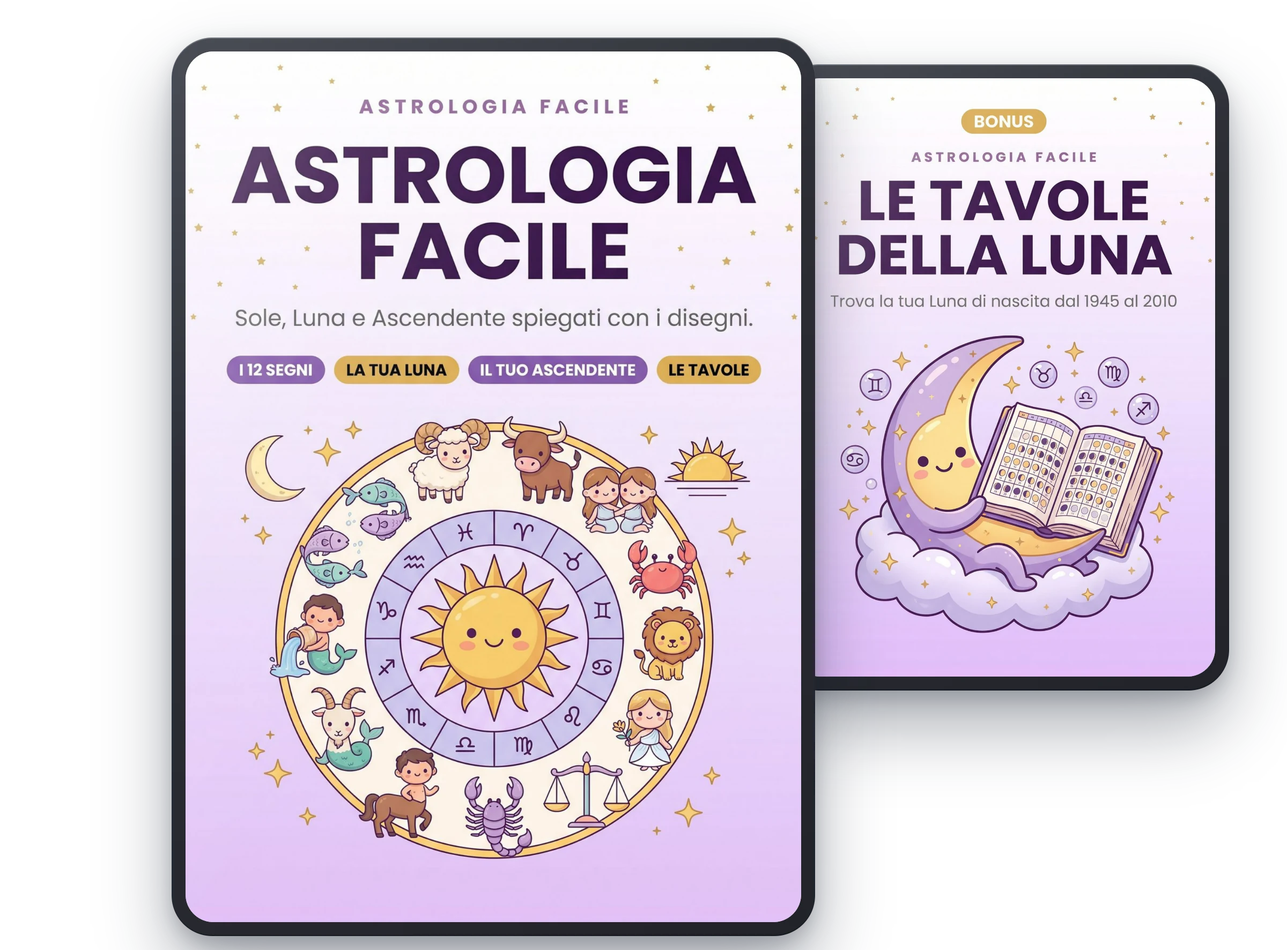
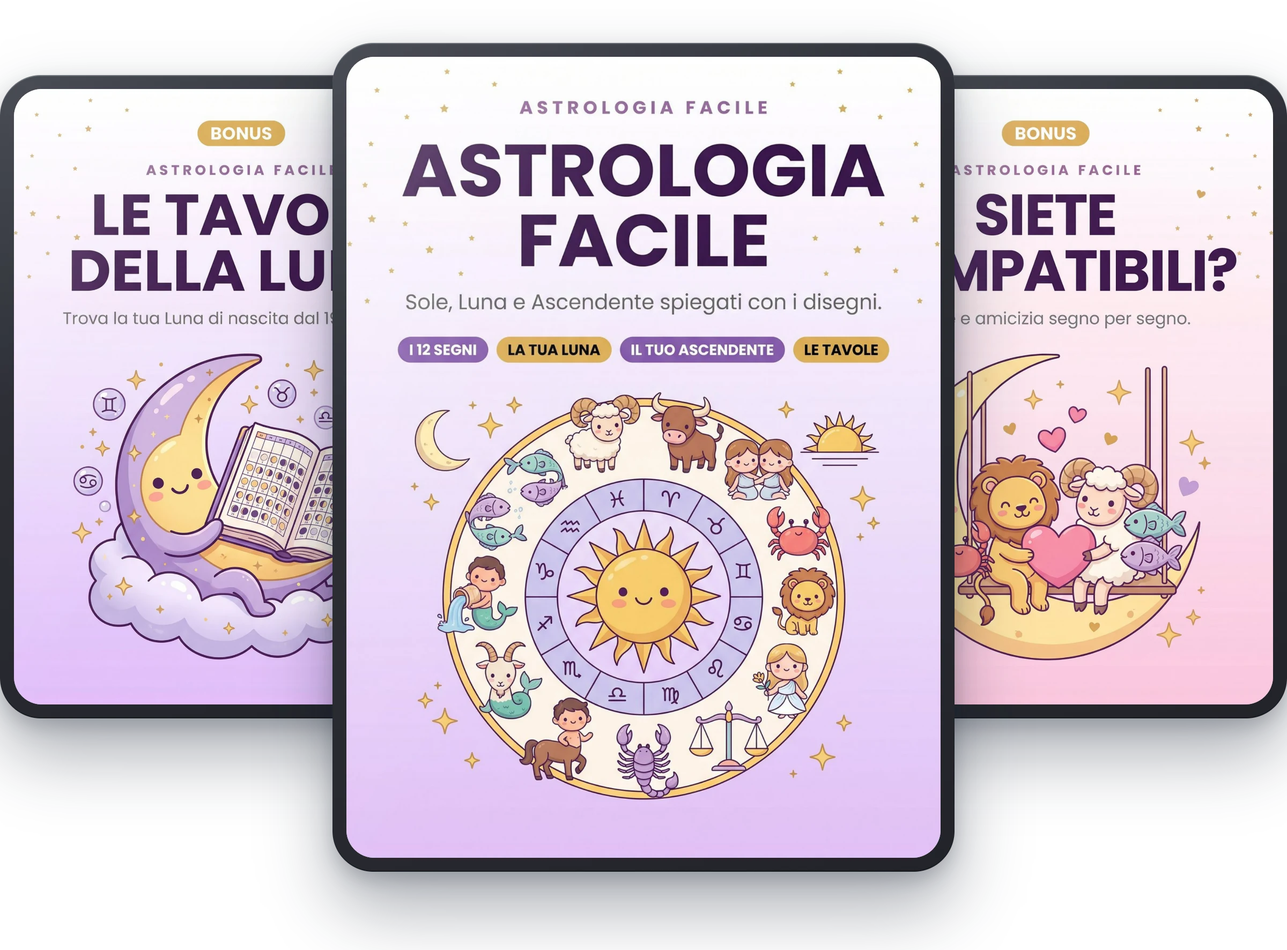
Astrologia: il terzo volume, e il contrasto misurato su tutte e due le landing
«Siete compatibili?» entra come BONUS 2: hero a tre copertine, blocco nel
value stack, riga nel decision box e valore a listino (9,90). Il kit vale
64,70 e si vende a 19,90.

Nel riepilogo e nella description restavano frasi del clone di
farmacologia e di anatomia — prontuari, piani del corpo, «porta in
reparto» — su pagine che parlano di zodiaco e di denti: riscritte.

Il contrasto non e' stimato ma misurato sulla pagina renderizzata,
mescolando le trasparenze e leggendo i gradienti: otto colori stavano
sotto la soglia WCAG, fra cui un titolo blu notte su fondo viola a 1,58.
Ora tutte e due le pagine danno zero.

diff --git a/astrologia.html b/astrologia.html
@@ -22,7 +22,7 @@
   <meta name="theme-color" content="#2645a0">
   <!-- title ~57 y description ~148 caracteres: es lo que Google alcanza a mostrar -->
   <title>Astrologia Facile: Sole, Luna e Ascendente spiegati con i disegni</title>
-  <meta name="description" content="Sole, Luna e Ascendente spiegati con i disegni in 71 pagine, con le tavole gi&agrave; calcolate per l&rsquo;Italia e Le Tavole della Luna in regalo. A 27€, garanzia 30 giorni.">
+  <meta name="description" content="Sole, Luna e Ascendente spiegati con i disegni in 71 pagine, con le tavole gi&agrave; calcolate per l&rsquo;Italia e 2 volumi in regalo. A 19,90€, garanzia 30 giorni.">
   <meta name="robots" content="index, follow, max-image-preview:large, max-snippet:-1">
   <meta name="author" content="Studio Facile">
   <link rel="alternate" hreflang="it" href="https://www.studiofacilebook.com/astrologia">
@@ -2089,7 +2089,7 @@
     }
 </style>
   <script type="application/ld+json">
-{"@context": "https://schema.org", "@graph": [{"@type": "Product", "name": "Astrologia Facile — guida illustrata", "brand": {"@type": "Brand", "name": "Studio Facile"}, "description": "71 pagine illustrate, schemi e non tavole: ritmo, aritmie, blocchi, infarto ed elettroliti. Con due volumi in regalo.", "image": "https://www.studiofacilebook.com/mockups/astrologia/hero.webp", "offers": {"@type": "Offer", "price": "27.0", "priceCurrency": "EUR", "availability": "https://schema.org/InStock", "url": "https://checkout.studiofacilebook.com/checkout/kit-astrologia-facile", "hasMerchantReturnPolicy": {"@type": "MerchantReturnPolicy", "returnPolicyCategory": "https://schema.org/MerchantReturnFiniteReturnWindow", "merchantReturnDays": 30, "applicableCountry": "IT"}}}, {"@type": "FAQPage", "mainEntity": [{"@type": "Question", "name": "Come riceverò il materiale?", "acceptedAnswer": {"@type": "Answer", "text": "Subito dopo l'acquisto ricevi un'email automatica con i tre volumi: Astrologia Facile, Farmaci in Emergenza e il Prontuario degli Antinfiammatori. Sono PDF in alta risoluzione, pronti da scaricare, stampare o consultare da qualsiasi dispositivo."}}, {"@type": "Question", "name": "Il pagamento è mensile o unico?", "acceptedAnswer": {"@type": "Answer", "text": "Pagamento unico di 27€. Nessuna rata, nessun addebito ricorrente, nessuna sorpresa. Paghi una volta e il materiale è tuo per sempre."}}, {"@type": "Question", "name": "Serve sapere gia qualcosa di astrologia?", "acceptedAnswer": {"@type": "Answer", "text": "No, si parte da zero. Le prime sei pagine danno la ruota, i quattro elementi e le tre modalita: da li in poi tutto il resto si legge da solo. Non ci sono calcoli da fare a mano."}}, {"@type": "Question", "name": "Devo conoscere l'ora esatta di nascita?", "acceptedAnswer": {"@type": "Answer", "text": "Per la Luna basta il giorno: la trovi nelle tavole in regalo. Per l'Ascendente serve l'ora, perche cambia ogni due ore circa. Se non la conosci c'e una pagina apposta che spiega come fare lo stesso e dove chiederla all'anagrafe."}}, {"@type": "Question", "name": "Le tavole valgono solo per l'Italia?", "acceptedAnswer": {"@type": "Answer", "text": "Sono calcolate sul fuso italiano e l'ora legale e gia compresa, quindi non devi correggere niente se sei nata in Italia. Per una nascita all'estero i segni della Luna restano validi: cambia solo l'ora, di poche ore."}}, {"@type": "Question", "name": "E un oroscopo?", "acceptedAnswer": {"@type": "Answer", "text": "No. Non ci sono previsioni e non c'e niente sul futuro: il libro spiega come leggere il tuo cielo di nascita, cioe com'eri fatta il giorno in cui sei nata. E un libro di intrattenimento e di crescita personale."}}, {"@type": "Question", "name": "Posso stamparlo?", "acceptedAnswer": {"@type": "Answer", "text": "Si, per uso personale e senza limiti. Il PDF e in alta risoluzione: la scheda finale e fatta apposta per essere stampata e compilata con i tuoi tre punti."}}]}]}
+{"@context": "https://schema.org", "@graph": [{"@type": "Product", "name": "Astrologia Facile — guida illustrata", "brand": {"@type": "Brand", "name": "Studio Facile"}, "description": "71 pagine illustrate, schemi e non tavole: ritmo, aritmie, blocchi, infarto ed elettroliti. Con due volumi in regalo.", "image": "https://www.studiofacilebook.com/mockups/astrologia/hero.webp", "offers": {"@type": "Offer", "price": "19.9", "priceCurrency": "EUR", "availability": "https://schema.org/InStock", "url": "https://checkout.studiofacilebook.com/checkout/kit-astrologia-facile", "hasMerchantReturnPolicy": {"@type": "MerchantReturnPolicy", "returnPolicyCategory": "https://schema.org/MerchantReturnFiniteReturnWindow", "merchantReturnDays": 30, "applicableCountry": "IT"}}}, {"@type": "FAQPage", "mainEntity": [{"@type": "Question", "name": "Come riceverò il materiale?", "acceptedAnswer": {"@type": "Answer", "text": "Subito dopo l'acquisto ricevi un'email automatica con i tre volumi: Astrologia Facile, Farmaci in Emergenza e il Prontuario degli Antinfiammatori. Sono PDF in alta risoluzione, pronti da scaricare, stampare o consultare da qualsiasi dispositivo."}}, {"@type": "Question", "name": "Il pagamento è mensile o unico?", "acceptedAnswer": {"@type": "Answer", "text": "Pagamento unico di 19,90€. Nessuna rata, nessun addebito ricorrente, nessuna sorpresa. Paghi una volta e il materiale è tuo per sempre."}}, {"@type": "Question", "name": "Serve sapere gia qualcosa di astrologia?", "acceptedAnswer": {"@type": "Answer", "text": "No, si parte da zero. Le prime sei pagine danno la ruota, i quattro elementi e le tre modalita: da li in poi tutto il resto si legge da solo. Non ci sono calcoli da fare a mano."}}, {"@type": "Question", "name": "Devo conoscere l'ora esatta di nascita?", "acceptedAnswer": {"@type": "Answer", "text": "Per la Luna basta il giorno: la trovi nelle tavole in regalo. Per l'Ascendente serve l'ora, perche cambia ogni due ore circa. Se non la conosci c'e una pagina apposta che spiega come fare lo stesso e dove chiederla all'anagrafe."}}, {"@type": "Question", "name": "Le tavole valgono solo per l'Italia?", "acceptedAnswer": {"@type": "Answer", "text": "Sono calcolate sul fuso italiano e l'ora legale e gia compresa, quindi non devi correggere niente se sei nata in Italia. Per una nascita all'estero i segni della Luna restano validi: cambia solo l'ora, di poche ore."}}, {"@type": "Question", "name": "E un oroscopo?", "acceptedAnswer": {"@type": "Answer", "text": "No. Non ci sono previsioni e non c'e niente sul futuro: il libro spiega come leggere il tuo cielo di nascita, cioe com'eri fatta il giorno in cui sei nata. E un libro di intrattenimento e di crescita personale."}}, {"@type": "Question", "name": "Posso stamparlo?", "acceptedAnswer": {"@type": "Answer", "text": "Si, per uso personale e senza limiti. Il PDF e in alta risoluzione: la scheda finale e fatta apposta per essere stampata e compilata con i tuoi tre punti."}}]}]}
   </script>
 <!-- Brevo: seguimiento web (visitas y clics de compra para las automatizaciones) -->
 <script src="https://cdn.brevo.com/js/sdk-loader.js" async></script>
@@ -2161,6 +2161,12 @@
     .promo-time{color:rgba(255,255,255,.88)}
     /* Etichetta QUESTO: rosso chiaro su rosa, 3,95. */
     .comparison-label.bad{background:#fcd9d9;color:#9b1c1c}
+    /* il titolo della sezione viola restava blu notte: 1,58 */
+    .subjects-section h2, .subjects-section h2 *{color:#fff}
+    /* il verde della garanzia su fondo verdino dava 2,42 */
+    .guarantee-box h3{color:#047857}
+    /* le stelline oro sul viola davano 3,34 */
+    .hero-social .stars, .tst-card .stars{color:#ffdf8a}
     /* L'occhiello aveva il fondo scritto a mano in blu (rgba 38,69,160):
        con il testo viola dava 1,16. Fondo lavanda e testo viola scuro. */
     .eyebrow{background:rgba(107,63,160,.12);color:#4a2878}
@@ -2181,7 +2187,7 @@
   <section class="hero">
     <div class="hero-content">
       <div class="hero-mockup">
-        <img src="https://czocbnyoenjbpxmcqobn.supabase.co/storage/v1/object/public/algoritmia-img/studiofacile/mockups/astrologia/hero.webp?v=b07f3aff" alt="Astrologia Facile, con Le Tavole della Luna in regalo"
+        <img src="https://czocbnyoenjbpxmcqobn.supabase.co/storage/v1/object/public/algoritmia-img/studiofacile/mockups/astrologia/hero.webp?v=74d98271" alt="Astrologia Facile, con Le Tavole della Luna e Siete compatibili in regalo"
              width="1200" height="886" loading="eager" fetchpriority="high" decoding="async">
       </div>
       <p class="hero-social">
@@ -2464,9 +2470,9 @@
   <!-- VALUE STACK -->
   <section class="value-section">
     <div class="container">
-      <h2 class="text-center">Ma Non è Tutto: Riceverai Anche Le Tavole della Luna in Regalo</h2>
+      <h2 class="text-center">Ma Non è Tutto: Riceverai Anche Due Volumi in Regalo</h2>
 
-      <div class="bonus-grid bonus-grid-uno">
+      <div class="bonus-grid">
         <div class="bonus-item-with-image">
           <div class="bonus-mockup">
             <img src="https://czocbnyoenjbpxmcqobn.supabase.co/storage/v1/object/public/algoritmia-img/studiofacile/mockups/astrologia/bonus-luna.webp?v=5f0ea03d" alt="Le Tavole della Luna, il bonus con le effemeridi dal 1945 al 2010" width="720" height="1000" loading="lazy" decoding="async">
@@ -2476,36 +2482,47 @@
             <p class="value">Valore singolo: 14,90€</p>
             <p>68 pagine, <strong>una pagina per ogni anno</strong>: il giorno e l'ora esatti in cui la Luna entra in ogni segno, e in cui il Sole cambia segno.</p>
             <p style="margin-top: 12px;">Calcolate con le effemeridi astronomiche sul fuso italiano, con l'ora legale già compresa. Sono le tavole che rendono possibile trovare la tua Luna senza nessuna app: cerchi l'anno, cerchi il giorno, e c'è.</p>
-            
           </div>
         </div>
 
+        <div class="bonus-item-with-image">
+          <div class="bonus-mockup">
+            <img src="https://czocbnyoenjbpxmcqobn.supabase.co/storage/v1/object/public/algoritmia-img/studiofacile/mockups/astrologia/bonus-compatibili.webp?v=3bbcf806" alt="Siete compatibili?, il bonus sulle affinità segno per segno" width="720" height="1000" loading="lazy" decoding="async">
+          </div>
+          <div class="bonus-text">
+            <h3>BONUS 2: &ldquo;Siete compatibili?&rdquo;, amore e amicizia segno per segno</h3>
+            <p class="value">Valore singolo: 9,90€</p>
+            <p>17 pagine, <strong>una scheda per ogni segno</strong>: con chi c'è più intesa, qual è l'attrazione fatale, e con quali segni ci vuole impegno.</p>
+            <p style="margin-top: 12px;">Su ogni pagina trovi che cosa cerca in amore, come si conquista e che cosa non sopporta. È il volume che finisce girato fra le mani degli amici: si legge la propria scheda e si va subito a cercare quella dell'altro.</p>
+          </div>
+        </div>
       </div>
         </div>
       </div>
 
       <!-- DECISION BOX -->
       <div class="decision-box" id="offerta">
-        <img src="https://czocbnyoenjbpxmcqobn.supabase.co/storage/v1/object/public/algoritmia-img/studiofacile/mockups/astrologia/hero.webp?v=b07f3aff" alt="Astrologia Facile con Le Tavole della Luna in regalo" class="db-mockup" width="1200" height="886" loading="lazy" decoding="async">
-        <h3 class="db-title">Astrologia Facile + Le Tavole della Luna</h3>
+        <img src="https://czocbnyoenjbpxmcqobn.supabase.co/storage/v1/object/public/algoritmia-img/studiofacile/mockups/astrologia/hero.webp?v=74d98271" alt="Astrologia Facile con i due volumi in regalo" class="db-mockup" width="1200" height="886" loading="lazy" decoding="async">
+        <h3 class="db-title">Astrologia Facile + i 2 volumi in regalo</h3>
         <ul class="db-checklist">
           <li><span class="db-check"><svg viewBox="0 0 24 24"><polyline points="20 6 9 17 4 12"/></svg></span>Astrologia Facile: 71 pagine illustrate<span class="db-price-val">39,90€</span></li>
           <li><span class="db-check"><svg viewBox="0 0 24 24"><polyline points="20 6 9 17 4 12"/></svg></span>Bonus 1: Le Tavole della Luna<span class="db-price-val">14,90€</span></li>
+          <li><span class="db-check"><svg viewBox="0 0 24 24"><polyline points="20 6 9 17 4 12"/></svg></span>Bonus 2: Siete compatibili?<span class="db-price-val">9,90€</span></li>
           <li><span class="db-check"><svg viewBox="0 0 24 24"><polyline points="20 6 9 17 4 12"/></svg></span>PDF in alta risoluzione per stampare<span class="db-price-val">Incluso</span></li>
         </ul>
         <div class="db-anchoring">
-          <p class="db-old-price">Valore totale: 54,80€</p>
+          <p class="db-old-price">Valore totale: 64,70€</p>
           <p class="db-new-price-label">Oggi solo:</p>
-          <p class="db-new-price">27€</p>
-          <span class="db-discount-badge">RISPARMI 27,80&euro;</span>
+          <p class="db-new-price">19,90€</p>
+          <span class="db-discount-badge">RISPARMI 44,80&euro;</span>
         </div>
-        <a href="https://checkout.studiofacilebook.com/checkout/kit-astrologia-facile" data-checkout class="db-cta">SÌ, VOGLIO ASTROLOGIA FACILE A 27€</a>
+        <a href="https://checkout.studiofacilebook.com/checkout/kit-astrologia-facile" data-checkout class="db-cta">SÌ, VOGLIO ASTROLOGIA FACILE A 19,90€</a>
         <div class="db-trust">
           <span class="db-trust-item"><span class="db-trust-icon"><svg viewBox="0 0 24 24"><path d="M12 1L3 5v6c0 5.55 3.84 10.74 9 12 5.16-1.26 9-6.45 9-12V5l-9-4z"/></svg></span>Acquisto sicuro</span>
           <span class="db-trust-item"><span class="db-trust-icon"><svg viewBox="0 0 24 24"><path d="M18 8h-1V6c0-2.76-2.24-5-5-5S7 3.24 7 6v2H6c-1.1 0-2 .9-2 2v10c0 1.1.9 2 2 2h12c1.1 0 2-.9 2-2V10c0-1.1-.9-2-2-2zm-6 9c-1.1 0-2-.9-2-2s.9-2 2-2 2 .9 2 2-.9 2-2 2zm3.1-9H8.9V6c0-1.71 1.39-3.1 3.1-3.1s3.1 1.39 3.1 3.1v2z"/></svg></span>Pagamento criptato</span>
           <span class="db-trust-item"><span class="db-trust-icon"><svg viewBox="0 0 24 24"><path d="M12 2C6.48 2 2 6.48 2 12s4.48 10 10 10 10-4.48 10-10S17.52 2 12 2zm-2 15l-5-5 1.41-1.41L10 14.17l7.59-7.59L19 8l-9 9z"/></svg></span>Garanzia 30 giorni</span>
         </div>
-        <p class="db-small-print"><strong>Accesso immediato:</strong> Astrologia Facile e Le Tavole della Luna ti arrivano subito via email. Pagamento unico, senza rate né costi nascosti.</p>
+        <p class="db-small-print"><strong>Accesso immediato:</strong> i tre volumi ti arrivano subito via email. Pagamento unico, senza rate né costi nascosti.</p>
       </div>
     </div>
   </section>
@@ -2566,16 +2583,16 @@
     <div class="container">
       <h2 class="text-center">Ricapitolando: Ecco Cosa Ricevi</h2>
       <ul class="recap-list">
-        <li>Astrologia Facile: 71 pagine illustrate in 4 parti, dai piani del corpo al sistema nervoso, con dieci domande d'esame risolte</li>
-        <li>Bonus 1: &ldquo;Farmaci in Emergenza&rdquo;, prontuario illustrato di 81 pagine (valore 14,90€)</li>
-        <li>Bonus 2: &ldquo;Prontuario Illustrato — Antinfiammatori&rdquo;, 64 pagine (valore 0€)</li>
+        <li>Astrologia Facile: 71 pagine illustrate in 4 parti, dalla ruota dello zodiaco ai dodici segni, fino alla tua Luna e al tuo Ascendente</li>
+        <li>Bonus 1: &ldquo;Le Tavole della Luna&rdquo;, 68 pagine di tavole gi&agrave; calcolate dal 1945 al 2010 (valore 14,90€)</li>
+        <li>Bonus 2: &ldquo;Siete compatibili?&rdquo;, 17 pagine di affinit&agrave; segno per segno (valore 9,90€)</li>
         <li>Consegna immediata: i 3 volumi arrivano via email subito dopo l'acquisto</li>
         <li>Garanzia di 30 giorni senza domande: provi senza rischio</li>
-        <li>PDF in alta risoluzione: stampa, annota, porta in reparto</li>
+        <li>PDF in alta risoluzione: li leggi dal telefono o li stampi e ci scrivi sopra</li>
       </ul>
       <div class="price-recap">
-        <p class="old-price">54,80€</p>
-        <p class="new-price">27€</p>
+        <p class="old-price">64,70€</p>
+        <p class="new-price">19,90€</p>
       </div>
       <div style="text-align: center;">
         <a href="#offerta" class="btn-cta">VOGLIO VEDERE L'OFFERTA COMPLETA</a>
@@ -2589,7 +2606,7 @@
       <div class="guarantee-box">
         <div class="icon"><svg aria-hidden="true" focusable="false" class="lc" viewBox="0 0 24 24" fill="none" stroke="currentColor" stroke-width="2" stroke-linecap="round" stroke-linejoin="round"><path d="M20 13c0 5-3.5 7.5-7.66 8.95a1 1 0 0 1-.67-.01C7.5 20.5 4 18 4 13V6a1 1 0 0 1 1-1c2 0 4.5-1.2 6.24-2.72a1.17 1.17 0 0 1 1.52 0C14.51 3.81 17 5 19 5a1 1 0 0 1 1 1z"/><path d="m9 12 2 2 4-4"/></svg></div>
         <h3>Garanzia &ldquo;Prova Senza Rischio&rdquo;: 30 Giorni</h3>
-        <p>Hai 30 giorni interi per provare Astrologia Facile e Le Tavole della Luna.</p>
+        <p>Hai 30 giorni interi per provare Astrologia Facile e i due volumi in regalo.</p>
         <p>Se entro quel periodo senti che il materiale non ti ha aiutato, non ti è servito o semplicemente non era quello che ti aspettavi, <strong>ti restituisco il 100% della tua spesa</strong>.</p>
         <p>Senza domande. Senza clausole in piccolo. Senza complicazioni.</p>
         <p><strong>Il rischio è ZERO. La decisione è tua.</strong></p>
@@ -2615,7 +2632,7 @@
             Il pagamento è mensile o unico?
           </button>
           <div class="faq-answer" id="faq2" hidden>
-            <p>Pagamento unico di 27€. Nessuna rata, nessun addebito ricorrente, nessuna sorpresa. Paghi una volta e il materiale è tuo per sempre.</p>
+            <p>Pagamento unico di 19,90€. Nessuna rata, nessun addebito ricorrente, nessuna sorpresa. Paghi una volta e il materiale è tuo per sempre.</p>
           </div>
         </div>
         <div class="faq-item">
@@ -2674,12 +2691,12 @@
       <p><strong>Ora tocca a te.</strong></p>
       <div class="cta-summary">
         <ul>
-          <li>Spesa unica: 27€</li>
+          <li>Spesa unica: 19,90€</li>
           <li>Garanzia: 30 giorni senza domande</li>
           <li>Consegna immediata via email</li>
         </ul>
       </div>
-      <a href="#offerta" class="btn-cta">VOGLIO ASTROLOGIA FACILE A 27€</a>
+      <a href="#offerta" class="btn-cta">VOGLIO ASTROLOGIA FACILE A 19,90€</a>
       <p class="cta-small-print" style="margin-top: 24px;">
         <svg aria-hidden="true" focusable="false" class="lc" viewBox="0 0 24 24" fill="none" stroke="currentColor" stroke-width="2" stroke-linecap="round" stroke-linejoin="round"><rect width="14" height="20" x="5" y="2" rx="2" ry="2"/><path d="M12 18h.01"/></svg> I 3 volumi arrivano via email in pochi minuti
       </p>
@@ -2720,9 +2737,9 @@
   <!-- Medicion (GTM ya esta instalado) -->
   <script>
     (function () {
-      var ITEM = { item_id: "astrologia", item_name: "Astrologia Facile", price: 27.0, currency: 'EUR', quantity: 1 };
+      var ITEM = { item_id: "astrologia", item_name: "Astrologia Facile", price: 19.9, currency: 'EUR', quantity: 1 };
       var FB = { content_ids: ["astrologia"], content_name: "Astrologia Facile",
-                 content_type: 'product', value: 27.0, currency: 'EUR' };
+                 content_type: 'product', value: 19.9, currency: 'EUR' };
 
       window.dataLayer = window.dataLayer || [];
       dataLayer.push({ ecommerce: null });

diff --git a/odontoiatria.html b/odontoiatria.html
@@ -22,7 +22,7 @@
   <meta name="theme-color" content="#2645a0">
   <!-- title ~57 y description ~148 caracteres: es lo que Google alcanza a mostrar -->
   <title>Odontoiatria Illustrata: capire l'odontoiatria con i disegni | Studio Facile</title>
-  <meta name="description" content="Scheletro, muscoli, circolazione, visceri e sistema nervoso in 84 pagine illustrate, con dieci domande d'esame risolte, più 2 volumi in regalo. A 27€, garanzia 30 giorni.">
+  <meta name="description" content="Denti, strumenti, materiali e sterilizzazione in 84 pagine illustrate, un argomento per pagina, più 2 volumi in regalo. A 19,90€, garanzia 30 giorni.">
   <meta name="robots" content="index, follow, max-image-preview:large, max-snippet:-1">
   <meta name="author" content="Studio Facile">
   <link rel="alternate" hreflang="it" href="https://www.studiofacilebook.com/odontoiatria">
@@ -2089,7 +2089,7 @@
     }
 </style>
   <script type="application/ld+json">
-{"@context": "https://schema.org", "@graph": [{"@type": "Product", "name": "Odontoiatria Illustrata — guida illustrata", "brand": {"@type": "Brand", "name": "Studio Facile"}, "description": "84 pagine illustrate, schemi e non tavole: ritmo, aritmie, blocchi, infarto ed elettroliti. Con due volumi in regalo.", "image": "https://www.studiofacilebook.com/mockups/odontoiatria/hero.webp", "offers": {"@type": "Offer", "price": "27.0", "priceCurrency": "EUR", "availability": "https://schema.org/InStock", "url": "https://checkout.studiofacilebook.com/checkout/kit-odontoiatria-illustrata", "hasMerchantReturnPolicy": {"@type": "MerchantReturnPolicy", "returnPolicyCategory": "https://schema.org/MerchantReturnFiniteReturnWindow", "merchantReturnDays": 30, "applicableCountry": "IT"}}}, {"@type": "FAQPage", "mainEntity": [{"@type": "Question", "name": "Come riceverò il materiale?", "acceptedAnswer": {"@type": "Answer", "text": "Subito dopo l'acquisto ricevi un'email automatica con i tre volumi: Odontoiatria Illustrata, Farmaci in Emergenza e il Prontuario degli Antinfiammatori. Sono PDF in alta risoluzione, pronti da scaricare, stampare o consultare da qualsiasi dispositivo."}}, {"@type": "Question", "name": "Il pagamento è mensile o unico?", "acceptedAnswer": {"@type": "Answer", "text": "Pagamento unico di 27€. Nessuna rata, nessun addebito ricorrente, nessuna sorpresa. Paghi una volta e il materiale è tuo per sempre."}}, {"@type": "Question", "name": "Serve partire da zero o bisogna gia lavorare in studio?", "acceptedAnswer": {"@type": "Answer", "text": "Si parte da zero: la prima parte da i nomi dei denti, la numerazione e le facce, cioe il vocabolario che il dentista detta ad alta voce. Chi e gia alla poltrona da mesi salta alla parte che gli serve e usa le quattro tavole finali."}}, {"@type": "Question", "name": "E un libro per il dentista?", "acceptedAnswer": {"@type": "Answer", "text": "No, ed e la prima cosa che si legge dentro: e scritto per chi sta dall'altra parte della poltrona. Assistenti di studio odontoiatrico, igienisti e studenti del primo anno. Non ci sono diagnosi ne terapie: quelle restano del dentista."}}, {"@type": "Question", "name": "Serve per il corso da ASO?", "acceptedAnswer": {"@type": "Answer", "text": "Copre gli argomenti che nel corso si studiano e che in studio servono tutti i giorni: strumentario, materiali, vassoi e la catena della sterilizzazione. Non e un corso e non rilascia nessun attestato: e il materiale illustrato che accompagna quello che stai facendo."}}, {"@type": "Question", "name": "Il bonus sulle emergenze sostituisce un corso BLSD?", "acceptedAnswer": {"@type": "Answer", "text": "No, e lo dice apertamente nella sua prima pagina. Le manovre di rianimazione si imparano con le mani, su un manichino e con un istruttore. Quel bonus copre quello che viene prima: riconoscere in fretta e fare le cose giuste mentre arriva chi sa."}}, {"@type": "Question", "name": "Posso stampare il materiale?", "acceptedAnswer": {"@type": "Answer", "text": "Si, per uso personale e senza limiti. I PDF sono in alta risoluzione: le quattro tavole finali sono fatte apposta per essere stampate e attaccate accanto allo sterilizzatore."}}]}]}
+{"@context": "https://schema.org", "@graph": [{"@type": "Product", "name": "Odontoiatria Illustrata — guida illustrata", "brand": {"@type": "Brand", "name": "Studio Facile"}, "description": "84 pagine illustrate, schemi e non tavole: ritmo, aritmie, blocchi, infarto ed elettroliti. Con due volumi in regalo.", "image": "https://www.studiofacilebook.com/mockups/odontoiatria/hero.webp", "offers": {"@type": "Offer", "price": "19.9", "priceCurrency": "EUR", "availability": "https://schema.org/InStock", "url": "https://checkout.studiofacilebook.com/checkout/kit-odontoiatria-illustrata", "hasMerchantReturnPolicy": {"@type": "MerchantReturnPolicy", "returnPolicyCategory": "https://schema.org/MerchantReturnFiniteReturnWindow", "merchantReturnDays": 30, "applicableCountry": "IT"}}}, {"@type": "FAQPage", "mainEntity": [{"@type": "Question", "name": "Come riceverò il materiale?", "acceptedAnswer": {"@type": "Answer", "text": "Subito dopo l'acquisto ricevi un'email automatica con i tre volumi: Odontoiatria Illustrata, Farmaci in Emergenza e il Prontuario degli Antinfiammatori. Sono PDF in alta risoluzione, pronti da scaricare, stampare o consultare da qualsiasi dispositivo."}}, {"@type": "Question", "name": "Il pagamento è mensile o unico?", "acceptedAnswer": {"@type": "Answer", "text": "Pagamento unico di 19,90€. Nessuna rata, nessun addebito ricorrente, nessuna sorpresa. Paghi una volta e il materiale è tuo per sempre."}}, {"@type": "Question", "name": "Serve partire da zero o bisogna gia lavorare in studio?", "acceptedAnswer": {"@type": "Answer", "text": "Si parte da zero: la prima parte da i nomi dei denti, la numerazione e le facce, cioe il vocabolario che il dentista detta ad alta voce. Chi e gia alla poltrona da mesi salta alla parte che gli serve e usa le quattro tavole finali."}}, {"@type": "Question", "name": "E un libro per il dentista?", "acceptedAnswer": {"@type": "Answer", "text": "No, ed e la prima cosa che si legge dentro: e scritto per chi sta dall'altra parte della poltrona. Assistenti di studio odontoiatrico, igienisti e studenti del primo anno. Non ci sono diagnosi ne terapie: quelle restano del dentista."}}, {"@type": "Question", "name": "Serve per il corso da ASO?", "acceptedAnswer": {"@type": "Answer", "text": "Copre gli argomenti che nel corso si studiano e che in studio servono tutti i giorni: strumentario, materiali, vassoi e la catena della sterilizzazione. Non e un corso e non rilascia nessun attestato: e il materiale illustrato che accompagna quello che stai facendo."}}, {"@type": "Question", "name": "Il bonus sulle emergenze sostituisce un corso BLSD?", "acceptedAnswer": {"@type": "Answer", "text": "No, e lo dice apertamente nella sua prima pagina. Le manovre di rianimazione si imparano con le mani, su un manichino e con un istruttore. Quel bonus copre quello che viene prima: riconoscere in fretta e fare le cose giuste mentre arriva chi sa."}}, {"@type": "Question", "name": "Posso stampare il materiale?", "acceptedAnswer": {"@type": "Answer", "text": "Si, per uso personale e senza limiti. I PDF sono in alta risoluzione: le quattro tavole finali sono fatte apposta per essere stampate e attaccate accanto allo sterilizzatore."}}]}]}
   </script>
 <!-- Brevo: seguimiento web (visitas y clics de compra para las automatizaciones) -->
 <script src="https://cdn.brevo.com/js/sdk-loader.js" async></script>
@@ -2116,6 +2116,18 @@
   })();
 </script>
 <!-- /Brevo -->
+
+<style>
+  /* bianco su arancio #f97316 dava 2,82: stesso arancio, piu' profondo */
+  .btn-cta, .db-cta{background:#c2410c}
+  .btn-cta:hover, .db-cta:hover{background:#9a3412}
+  /* il verde della garanzia sul verdino dava 2,42 */
+  .guarantee-box h3{color:#047857}
+  /* l'ora della promo sul blu dava 3,68 */
+  .promo-time{color:rgba(255,255,255,.92)}
+  /* il rosso dell'etichetta «QUESTO» sul rosa dava 3,95 */
+  .comparison-label.bad{background:#fcd9d9;color:#9b1c1c}
+</style>
 </head>
 <body>
 
@@ -2484,10 +2496,10 @@
         <div class="db-anchoring">
           <p class="db-old-price">Valore totale: 91€</p>
           <p class="db-new-price-label">Oggi solo:</p>
-          <p class="db-new-price">27€</p>
-          <span class="db-discount-badge">RISPARMI 64&euro;</span>
+          <p class="db-new-price">19,90€</p>
+          <span class="db-discount-badge">RISPARMI 71,10&euro;</span>
         </div>
-        <a href="https://checkout.studiofacilebook.com/checkout/kit-odontoiatria-illustrata" data-checkout class="db-cta">SÌ, VOGLIO ODONTOIATRIA ILLUSTRATA A 27€</a>
+        <a href="https://checkout.studiofacilebook.com/checkout/kit-odontoiatria-illustrata" data-checkout class="db-cta">SÌ, VOGLIO ODONTOIATRIA ILLUSTRATA A 19,90€</a>
         <div class="db-trust">
           <span class="db-trust-item"><span class="db-trust-icon"><svg viewBox="0 0 24 24"><path d="M12 1L3 5v6c0 5.55 3.84 10.74 9 12 5.16-1.26 9-6.45 9-12V5l-9-4z"/></svg></span>Acquisto sicuro</span>
           <span class="db-trust-item"><span class="db-trust-icon"><svg viewBox="0 0 24 24"><path d="M18 8h-1V6c0-2.76-2.24-5-5-5S7 3.24 7 6v2H6c-1.1 0-2 .9-2 2v10c0 1.1.9 2 2 2h12c1.1 0 2-.9 2-2V10c0-1.1-.9-2-2-2zm-6 9c-1.1 0-2-.9-2-2s.9-2 2-2 2 .9 2 2-.9 2-2 2zm3.1-9H8.9V6c0-1.71 1.39-3.1 3.1-3.1s3.1 1.39 3.1 3.1v2z"/></svg></span>Pagamento criptato</span>
@@ -2561,7 +2573,7 @@
       </ul>
       <div class="price-recap">
         <p class="old-price">91€</p>
-        <p class="new-price">27€</p>
+        <p class="new-price">19,90€</p>
       </div>
       <div style="text-align: center;">
         <a href="#offerta" class="btn-cta">VOGLIO VEDERE L'OFFERTA COMPLETA</a>
@@ -2601,7 +2613,7 @@
             Il pagamento è mensile o unico?
           </button>
           <div class="faq-answer" id="faq2" hidden>
-            <p>Pagamento unico di 27€. Nessuna rata, nessun addebito ricorrente, nessuna sorpresa. Paghi una volta e il materiale è tuo per sempre.</p>
+            <p>Pagamento unico di 19,90€. Nessuna rata, nessun addebito ricorrente, nessuna sorpresa. Paghi una volta e il materiale è tuo per sempre.</p>
           </div>
         </div>
         <div class="faq-item">
@@ -2660,12 +2672,12 @@
       <p><strong>Ora tocca a te.</strong></p>
       <div class="cta-summary">
         <ul>
-          <li>Spesa unica: 27€</li>
+          <li>Spesa unica: 19,90€</li>
           <li>Garanzia: 30 giorni senza domande</li>
           <li>Consegna immediata via email</li>
         </ul>
       </div>
-      <a href="#offerta" class="btn-cta">VOGLIO ODONTOIATRIA ILLUSTRATA A 27€</a>
+      <a href="#offerta" class="btn-cta">VOGLIO ODONTOIATRIA ILLUSTRATA A 19,90€</a>
       <p class="cta-small-print" style="margin-top: 24px;">
         <svg aria-hidden="true" focusable="false" class="lc" viewBox="0 0 24 24" fill="none" stroke="currentColor" stroke-width="2" stroke-linecap="round" stroke-linejoin="round"><rect width="14" height="20" x="5" y="2" rx="2" ry="2"/><path d="M12 18h.01"/></svg> I 3 volumi arrivano via email in pochi minuti
       </p>
@@ -2706,9 +2718,9 @@
   <!-- Medicion (GTM ya esta instalado) -->
   <script>
     (function () {
-      var ITEM = { item_id: "odontoiatria", item_name: "Odontoiatria Illustrata", price: 27.0, currency: 'EUR', quantity: 1 };
+      var ITEM = { item_id: "odontoiatria", item_name: "Odontoiatria Illustrata", price: 19.9, currency: 'EUR', quantity: 1 };
       var FB = { content_ids: ["odontoiatria"], content_name: "Odontoiatria Illustrata",
-                 content_type: 'product', value: 27.0, currency: 'EUR' };
+                 content_type: 'product', value: 19.9, currency: 'EUR' };
 
       window.dataLayer = window.dataLayer || [];
       dataLayer.push({ ecommerce: null });
